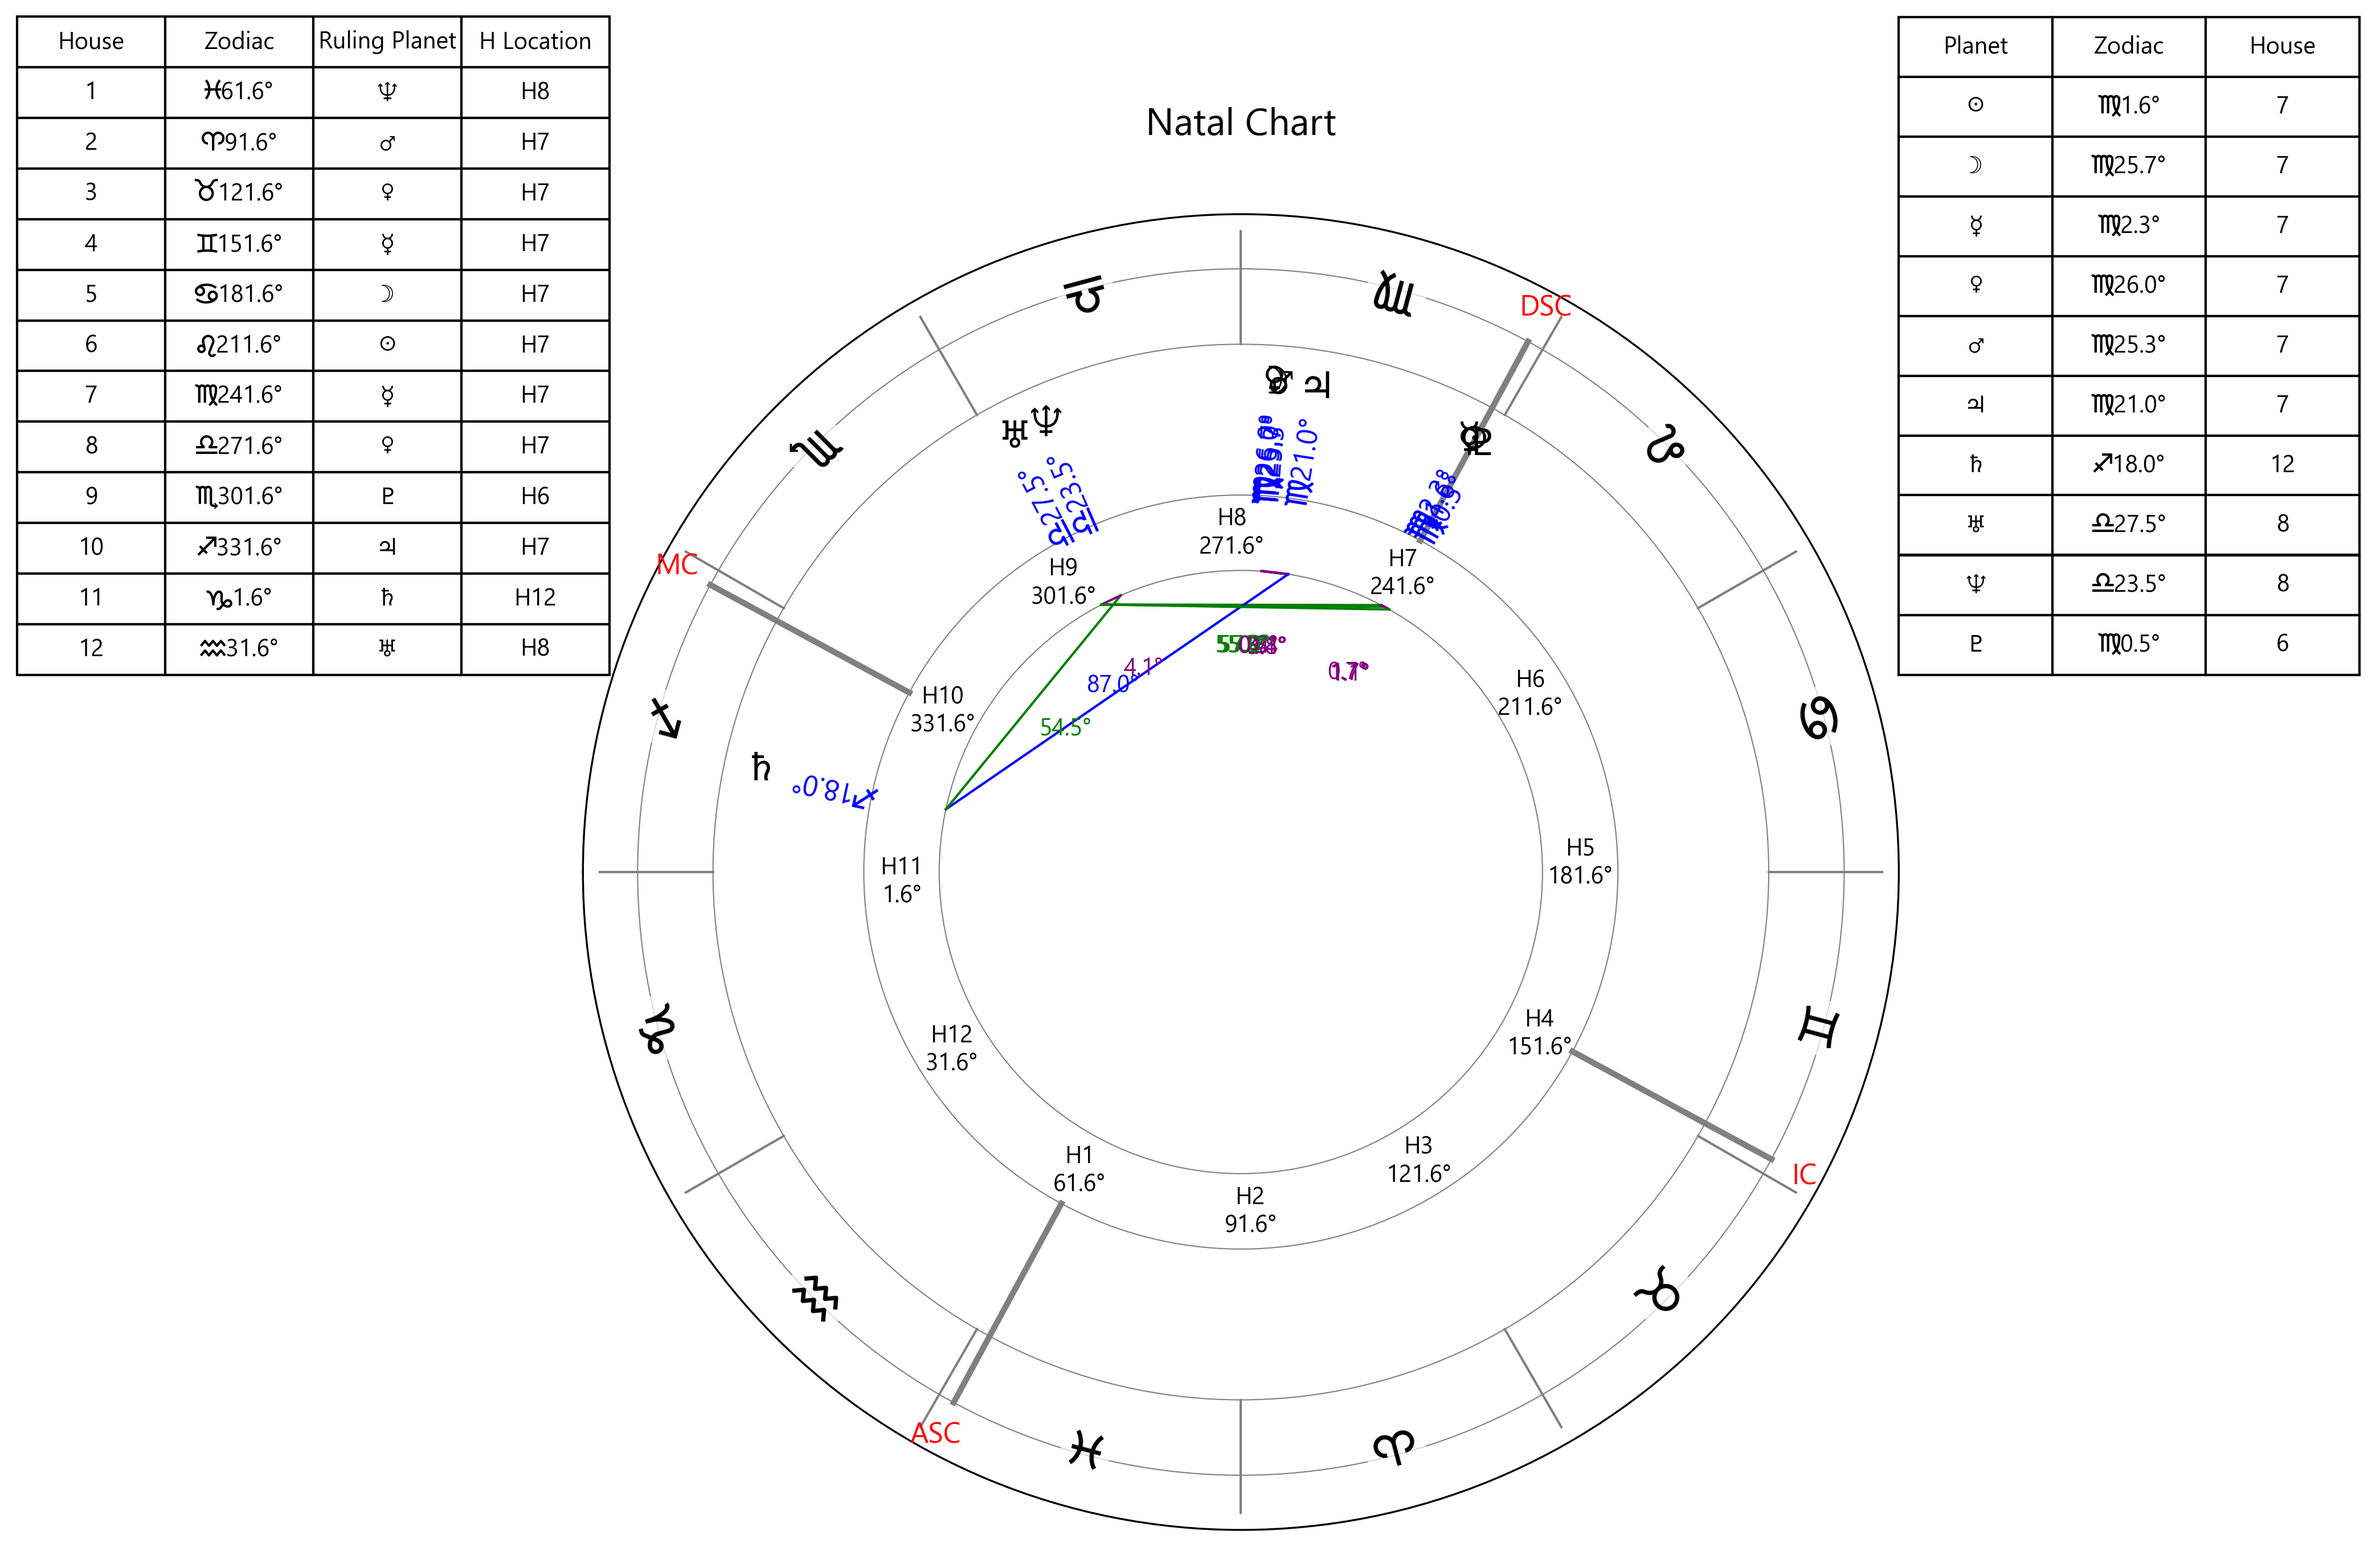
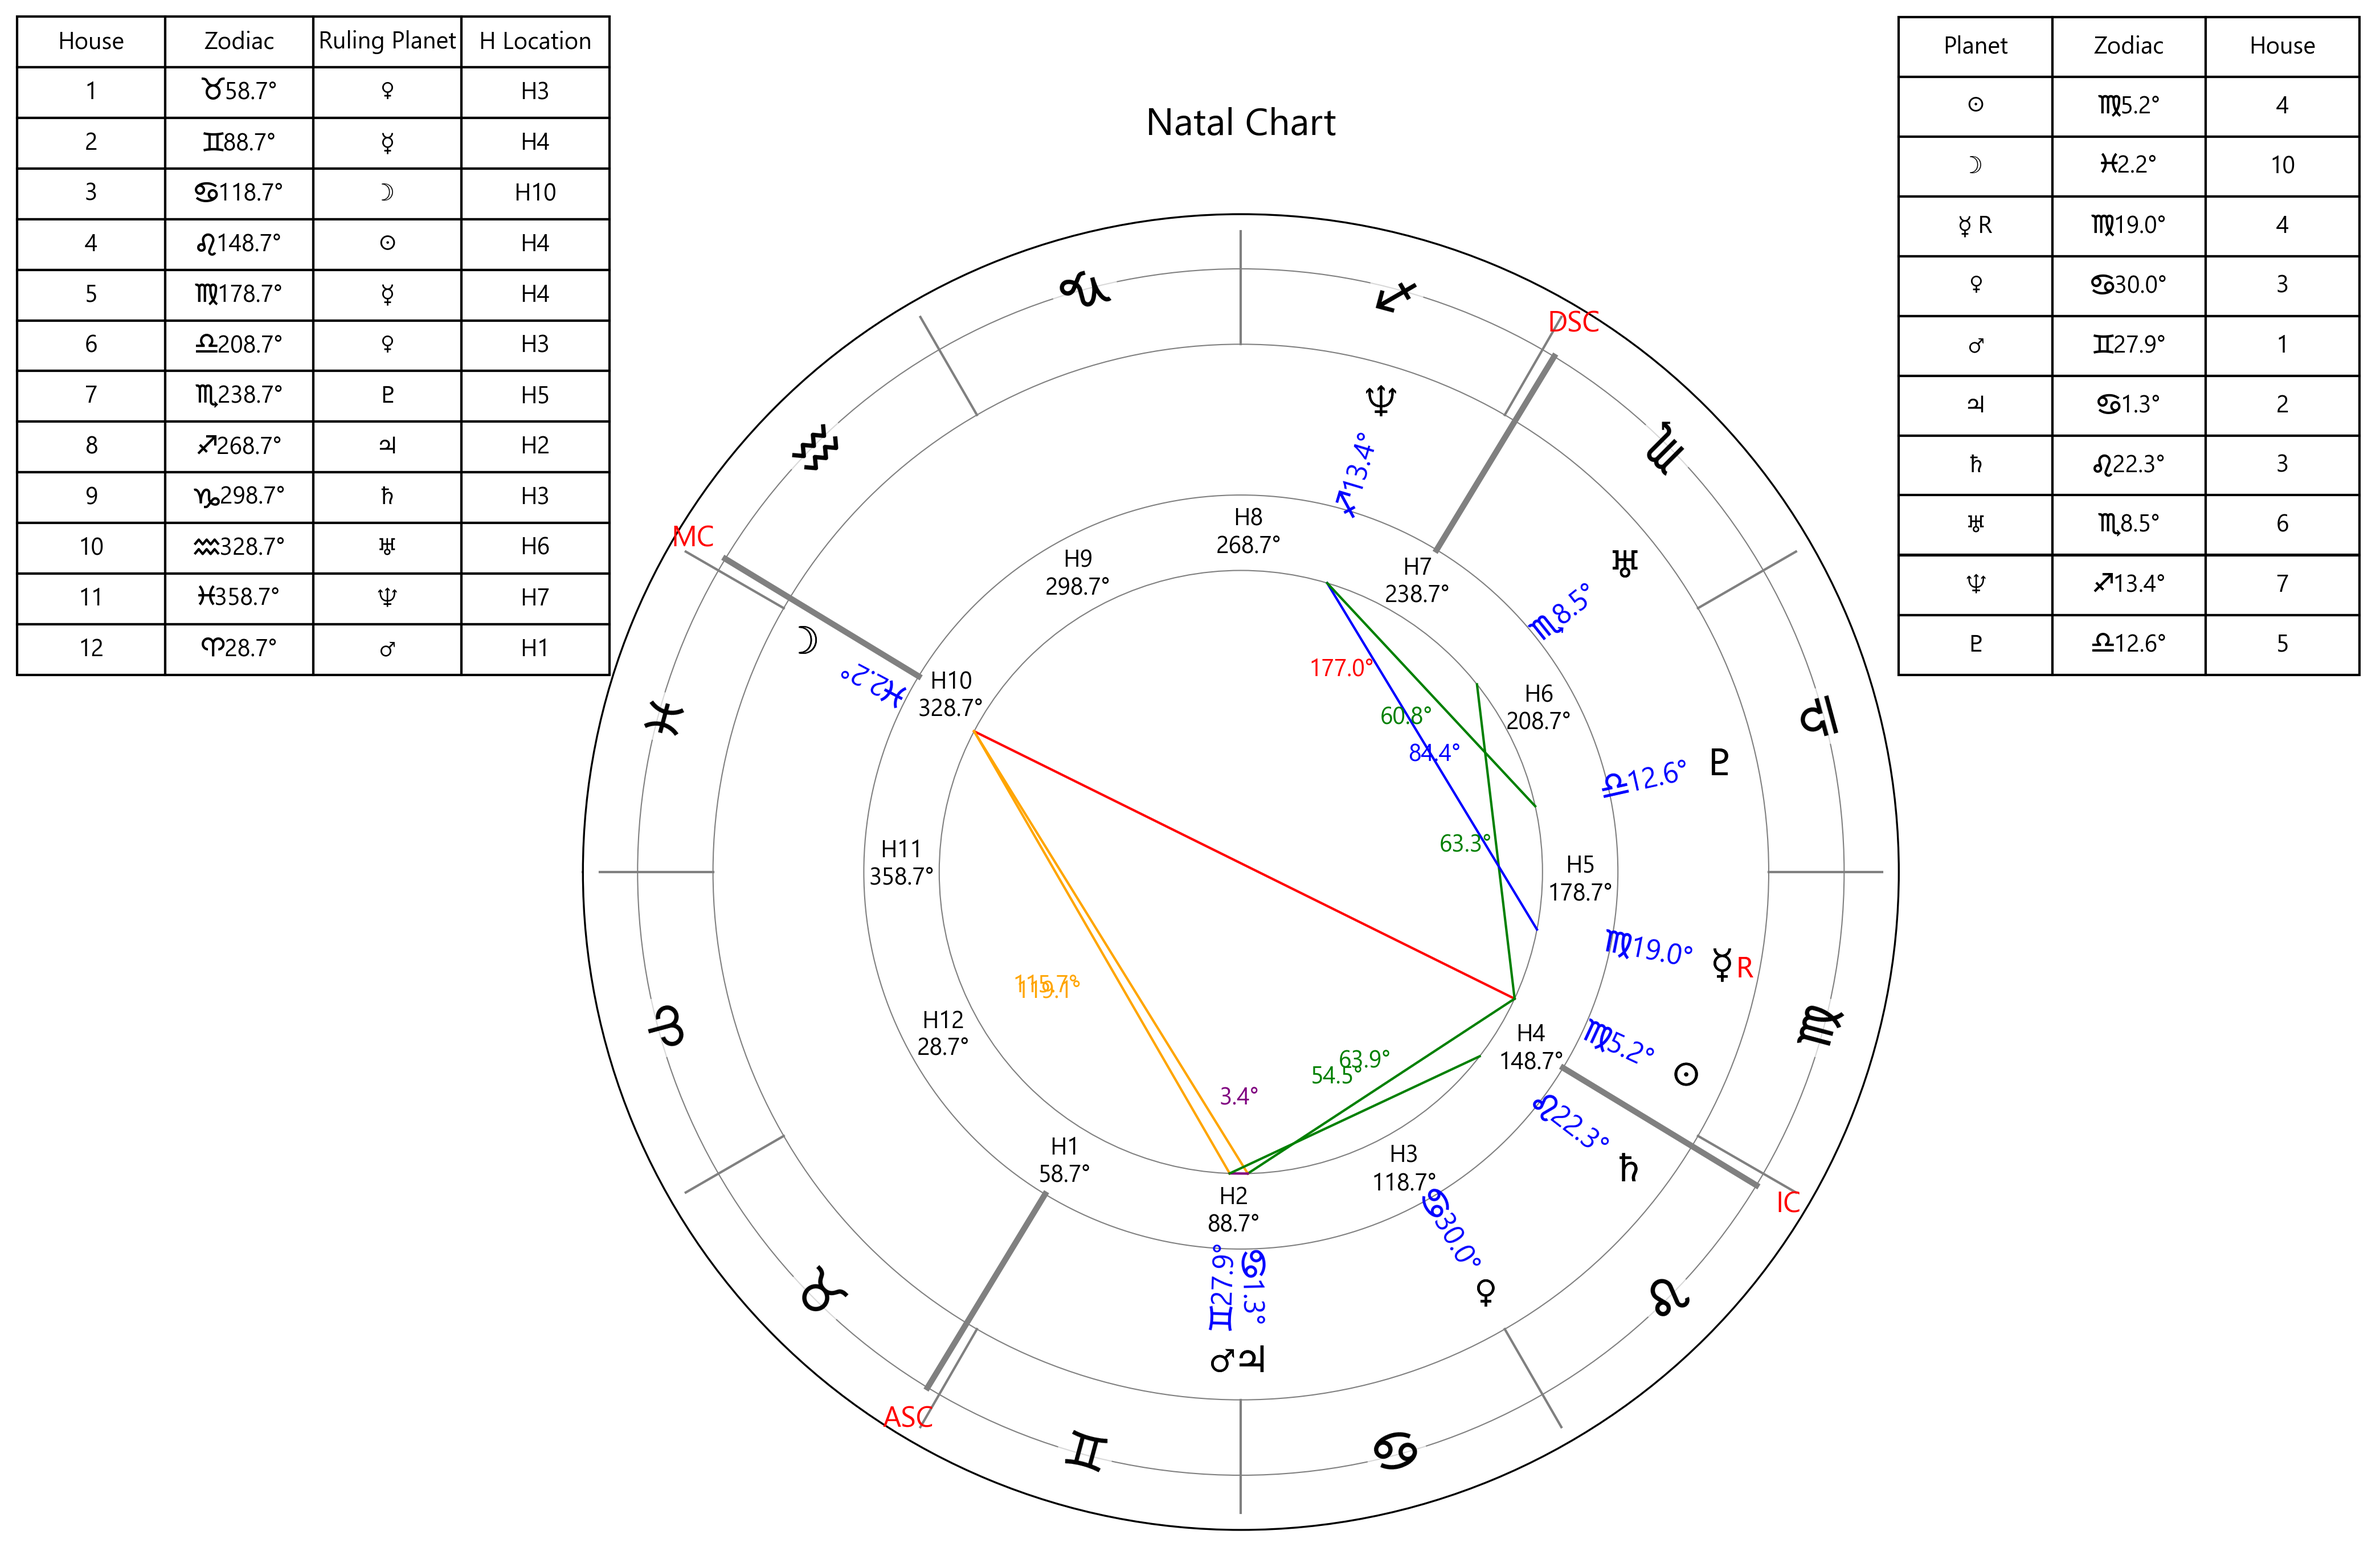
Initial commit

diff --git a/src/visualization.py b/src/visualization.py
@@ -11,10 +11,10 @@ rcParams['font.sans-serif'] = ['Segoe UI Symbol', 'Microsoft YaHei', 'DejaVu San
 rcParams['axes.unicode_minus'] = False
 
 # 依照 12 個星座的順序（此處定義 0-30° 為 Capricorn，即摩羯座）：
-zodiac_signs = ['\u2651', '\u2652', '\u2653', '\u2648', '\u2649', '\u264A',
-                '\u264B', '\u264C', '\u264D', '\u264E', '\u264F', '\u2650']
-zodiac_names = ['Capricorn', 'Aquarius', 'Pisces', 'Aries', 'Taurus', 'Gemini',
-                'Cancer', 'Leo', 'Virgo', 'Libra', 'Scorpio', 'Sagittarius']
+zodiac_signs = ['\u2648', '\u2649', '\u264A', '\u264B', '\u264C', '\u264D',
+                '\u264E', '\u264F', '\u2650', '\u2651', '\u2652', '\u2653']
+zodiac_names = ['Aries', 'Taurus', 'Gemini', 'Cancer', 'Leo', 'Virgo',
+               'Libra', 'Scorpio', 'Sagittarius', 'Capricorn', 'Aquarius', 'Pisces']
 
 # 宮主星對應（僅作參考，實際運用可擴充）
 ruling_planets = {
@@ -329,11 +329,11 @@ def plot_natal_chart(planet_positions, julian_day, latitude, longitude, aspect_l
 # 測試與執行主程式
 # -------------------------
 # 輸入客戶端的完整出生資料（例如：1958 年 1 月 6 日，當地時間 12:00:00，台北 UTC+8）
-birth_year = 1995
-birth_month = 11
-birth_day = 24
-birth_hour = 17
-birth_minute = 0
+birth_year = 1977
+birth_month = 8
+birth_day = 28
+birth_hour = 22
+birth_minute = 34
 birth_second = 0
 timezone_offset = 8  # 台北為 UTC+8
 
